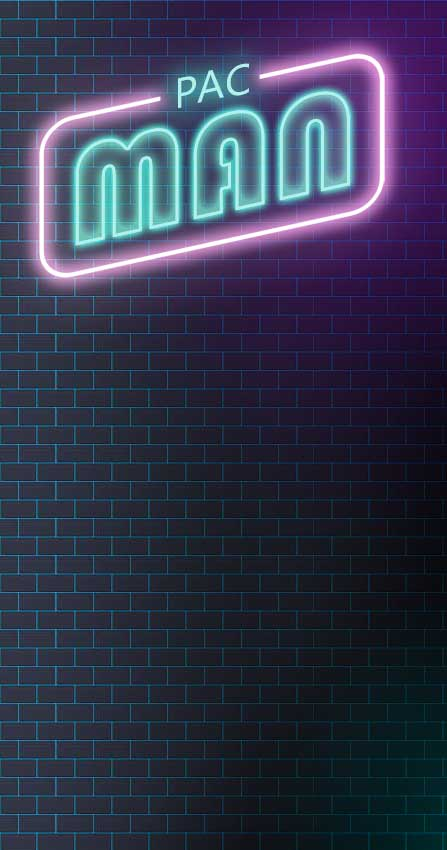
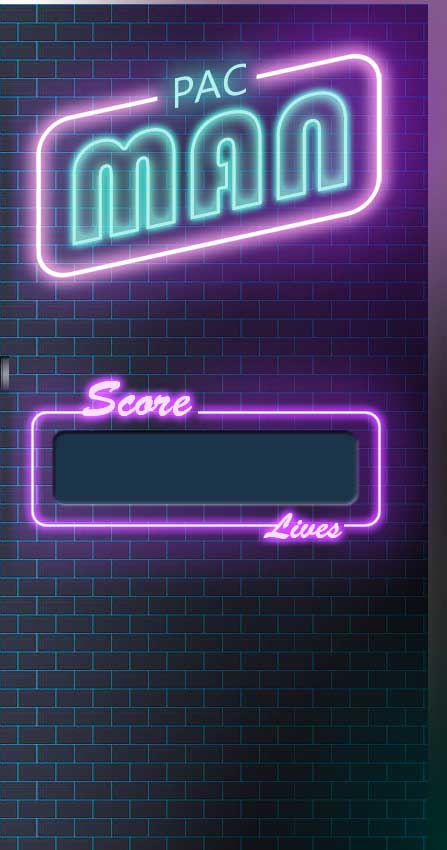
add ability for ghouls to look for pacman

diff --git a/PacMan/PacMan/Form1.Designer.cs b/PacMan/PacMan/Form1.Designer.cs
@@ -32,6 +32,7 @@ namespace Pacman
             this.components = new System.ComponentModel.Container();
             this.timer1 = new System.Windows.Forms.Timer(this.components);
             this.pictureBox1 = new System.Windows.Forms.PictureBox();
+            this.textBox1 = new System.Windows.Forms.TextBox();
             ((System.ComponentModel.ISupportInitialize)(this.pictureBox1)).BeginInit();
             this.SuspendLayout();
             // 
@@ -44,11 +45,25 @@ namespace Pacman
             // 
             this.pictureBox1.BackColor = System.Drawing.SystemColors.ActiveBorder;
             this.pictureBox1.Image = global::PacMan.Properties.Resources.scoreboard;
-            this.pictureBox1.Location = new System.Drawing.Point(999, -13);
+            this.pictureBox1.Location = new System.Drawing.Point(993, -18);
+            this.pictureBox1.Margin = new System.Windows.Forms.Padding(3, 2, 3, 2);
             this.pictureBox1.Name = "pictureBox1";
             this.pictureBox1.Size = new System.Drawing.Size(585, 970);
             this.pictureBox1.TabIndex = 0;
             this.pictureBox1.TabStop = false;
+            // 
+            // textBox1
+            // 
+            this.textBox1.BackColor = System.Drawing.Color.FromArgb(((int)(((byte)(28)))), ((int)(((byte)(52)))), ((int)(((byte)(75)))));
+            this.textBox1.BorderStyle = System.Windows.Forms.BorderStyle.None;
+            this.textBox1.Cursor = System.Windows.Forms.Cursors.No;
+            this.textBox1.Font = new System.Drawing.Font("Broadway", 40.2F, System.Drawing.FontStyle.Regular, System.Drawing.GraphicsUnit.Point, ((byte)(0)));
+            this.textBox1.ForeColor = System.Drawing.Color.MintCream;
+            this.textBox1.Location = new System.Drawing.Point(1104, 517);
+            this.textBox1.Name = "textBox1";
+            this.textBox1.Size = new System.Drawing.Size(156, 76);
+            this.textBox1.TabIndex = 0;
+            this.textBox1.TabStop = false;
             // 
             // Form1
             // 
@@ -56,14 +71,16 @@ namespace Pacman
             this.AutoScaleMode = System.Windows.Forms.AutoScaleMode.Font;
             this.BackColor = System.Drawing.SystemColors.ActiveCaptionText;
             this.ClientSize = new System.Drawing.Size(1813, 974);
+            this.Controls.Add(this.textBox1);
             this.Controls.Add(this.pictureBox1);
             this.DoubleBuffered = true;
-            this.Margin = new System.Windows.Forms.Padding(4, 4, 4, 4);
+            this.Margin = new System.Windows.Forms.Padding(4);
             this.Name = "Form1";
             this.Text = "Form1";
             this.KeyDown += new System.Windows.Forms.KeyEventHandler(this.Form1_KeyDown_1);
             ((System.ComponentModel.ISupportInitialize)(this.pictureBox1)).EndInit();
             this.ResumeLayout(false);
+            this.PerformLayout();
 
         }
 
@@ -71,6 +88,7 @@ namespace Pacman
 
         private System.Windows.Forms.Timer timer1;
         internal System.Windows.Forms.PictureBox pictureBox1;
+        private System.Windows.Forms.TextBox textBox1;
     }
 }
 

diff --git a/PacMan/PacMan/Controller.cs b/PacMan/PacMan/Controller.cs
@@ -4,6 +4,7 @@ using System.Drawing;
 using System.Linq;
 using System.Text;
 using System.Threading.Tasks;
+using System.Windows.Forms;
 
 namespace PacMan
 {
@@ -26,13 +27,17 @@ namespace PacMan
         private List<Bitmap> ghoul3Frames;
         private List<Bitmap> ghoul4Frames;
         private List<Ghoul> ghouls;
+        private TextBox textBox1;
+        private int score;
 
 
-        public Controller(Maze maze, Random random)
+        public Controller(Maze maze, Random random, TextBox textBox1)
         {
             this.maze = maze;
             this.random = random;
-
+            this.textBox1 = textBox1;
+            score = 0;
+            textBox1.Text = score.ToString();
             pacmanFrames = new List<Bitmap>(); //creating list of animation framse for pacman
             for (int i = 1; i < PACFRAMECOUNT+1; i++)
             {
@@ -78,17 +83,20 @@ namespace PacMan
 
         public void StartNewGame()
         {
-
+            pacman = null;
+            pacman = new PacMan(pacmanFrames, maze, random);
+            foreach (Ghoul ghoul in ghouls)
+            {
+                int pos = 9;
+                ghoul.Position = new Point(pos, 11);
+                pos++;
+            }
 
         }
 
         public void PlayGame()
         {
-
             maze.Draw();
-
-
-
             foreach (Ghoul ghoul in ghouls)
             {
                 ghoul.Draw();
@@ -112,9 +120,16 @@ namespace PacMan
                 pacman.Move();
             }
 
+            if (pacman.EatKibble() == true)
+            {
+                score++;
+                textBox1.Text = score.ToString();
+            }
 
             foreach (Ghoul ghoul in ghouls)
             {
+                ghoul.PacManPosition(pacman.Position.Y);
+
                 if (pacman.HitOpponent(ghoul.Position))
                 {
                     pacman.Dead1 = true;
@@ -122,9 +137,10 @@ namespace PacMan
                 }
             }
 
-
-
-
+            if (pacman.AniFrame == 23)
+            {
+                StartNewGame();
+            }
         }
 
         public void SetPacManDirection(Direction direction)

diff --git a/PacMan/PacMan/Maze.cs b/PacMan/PacMan/Maze.cs
@@ -24,9 +24,9 @@ namespace PacMan
                                 "wlwwwlwlkkwwckiwlwwwlw" +
                                 "wlkkkiwwwlwwlwwwlkkkiw" +
                                 "wwwwwlwckikkikkwlwwwww" +
-                                "wwwwwlwlwbbbbwlwlwwwww" +
-                                "kkkkkikiwbbbbwlkikkkkk" +
-                                "wwwwwlwlwbbbbwlwlwwwww" +
+                                "wwwwwlwlwjjjjwlwlwwwww" +
+                                "pkkkkikiwjjjjwlkikkkkp" +
+                                "wwwwwlwlwjjjjwlwlwwwww" +
                                 "wwwwwlwlwwwwwwlwlwwwww" +
                                 "wckkkiwlkkkkkkiwlkkkkw" +
                                 "wlwwwlwlwwwwwwlwlwwwlw" +
@@ -47,6 +47,7 @@ namespace PacMan
         private Bitmap kibbleLeft;
         private Bitmap kibbleCorner;
         private Bitmap kibbleIntersection;
+        private Bitmap pipe;
 
         //constructor
         public Maze()
@@ -63,6 +64,7 @@ namespace PacMan
             kibbleLeft = Properties.Resources.kibbleLeft;
             kibbleCorner = Properties.Resources.kibbleCorner;
             kibbleIntersection = Properties.Resources.kibbleIntersection;
+            pipe = Properties.Resources.pipe;
             nKibbles = NKIBBLES;
 
             // set position of maze on the Form
@@ -134,7 +136,13 @@ namespace PacMan
                     case 'i':
                         Rows[nRow].Cells[nColumn].Value = kibbleIntersection;
                         break;
+                    case 'p':
+                        Rows[nRow].Cells[nColumn].Value = pipe;
+                        break;
                     case 'b':
+                        Rows[nRow].Cells[nColumn].Value = blank;
+                        break;
+                    case 'j':
                         Rows[nRow].Cells[nColumn].Value = blank;
                         break;
                     default:

diff --git a/PacMan/PacMan/Ghoul.cs b/PacMan/PacMan/Ghoul.cs
@@ -30,6 +30,7 @@ namespace PacMan
         private int headY;
         private int stringPos;
         private bool change;
+        private int pacManYPos;
 
 
         public Ghoul(List<Bitmap> frames, Maze maze, Random random, Point position)
@@ -137,7 +138,7 @@ namespace PacMan
 
                     rotateSprite(DOWN); //9 represents start frame of downward animation sequence
 
-                    if (maze.CurrentMap1[stringPos + 22] != 'w')
+                    if (maze.CurrentMap1[stringPos + 22] != 'w' && maze.CurrentMap1[stringPos + 22] != 'j')
                     {
                         headY++;
                     }
@@ -156,6 +157,26 @@ namespace PacMan
 
             position = new Point(headX, headY);
         }
+
+        public void PacManPosition(int YPos)
+        {
+            pacManYPos = YPos;
+        }
+
+        private void findPacMan()  //check to see if pacman is above or below ghoul
+        {
+            if (position.Y > pacManYPos && maze.CurrentMap1[stringPos - 22] != 'w')
+            {
+                direction = Direction.Up;
+            }
+
+            if (position.Y < pacManYPos && maze.CurrentMap1[stringPos + 22] != 'w' && maze.CurrentMap1[stringPos] != 'j')  //forces ghouls to leave jail  at beginning of level
+            {
+                direction = Direction.Down;
+            }
+
+        }
+
 
         private void changeDirection()
         {
@@ -208,6 +229,7 @@ namespace PacMan
         {
 
             int newDirection = random.Next(4);
+            findPacMan(); //ghouls will search for pacman position but only in wall gaps, not in maze corners
 
             switch (newDirection)
             {

diff --git a/PacMan/PacMan/PacMan.cs b/PacMan/PacMan/PacMan.cs
@@ -61,12 +61,27 @@ namespace PacMan
             maze.Rows[position.Y].Cells[position.X].Value = frames[aniFrame];
         }
 
+        public bool EatKibble() //checks to see if pacman has landed on a square with kibble
+        {
+            bool eat = false;
+            if ((maze.CurrentMap1[stringPos] == 'k')||
+                (maze.CurrentMap1[stringPos] == 'l') || 
+                (maze.CurrentMap1[stringPos] == 'i') || 
+                (maze.CurrentMap1[stringPos] == 'c'))
+            {
+                eat = true;
+                maze.CurrentMap1[stringPos] = 'b';
+            }
+            return eat;
+        }
+
         public override void Move()
         {
             int headX = position.X;
             int headY = position.Y;
             stringPos = (headY * CELLS) + headX;
-            maze.CurrentMap1[stringPos] = 'b';
+
+            
 
 
             switch (direction)
@@ -112,7 +127,7 @@ namespace PacMan
 
                     rotateSprite(DOWN); //9 represents start frame of downward animation sequence
 
-                    if (maze.CurrentMap1[stringPos + 22] != 'w')
+                    if (maze.CurrentMap1[stringPos + 22] != 'w'  && maze.CurrentMap1[stringPos + 22] != 'j')
                     {
                         headY++;
                     }
@@ -162,5 +177,6 @@ namespace PacMan
         public Point Position { get => position; set => position = value; }
         public int StringPos { get => stringPos; set => stringPos = value; }
         public bool Dead1 { get => dead; set => dead = value; }
+        public int AniFrame { get => aniFrame; set => aniFrame = value; }
     }
 }

diff --git a/PacMan/PacMan/Properties/Resources.Designer.cs b/PacMan/PacMan/Properties/Resources.Designer.cs
@@ -433,9 +433,29 @@ namespace PacMan.Properties {
         /// <summary>
         ///   Looks up a localized resource of type System.Drawing.Bitmap.
         /// </summary>
+        internal static System.Drawing.Bitmap pipe {
+            get {
+                object obj = ResourceManager.GetObject("pipe", resourceCulture);
+                return ((System.Drawing.Bitmap)(obj));
+            }
+        }
+        
+        /// <summary>
+        ///   Looks up a localized resource of type System.Drawing.Bitmap.
+        /// </summary>
         internal static System.Drawing.Bitmap scoreboard {
             get {
                 object obj = ResourceManager.GetObject("scoreboard", resourceCulture);
+                return ((System.Drawing.Bitmap)(obj));
+            }
+        }
+        
+        /// <summary>
+        ///   Looks up a localized resource of type System.Drawing.Bitmap.
+        /// </summary>
+        internal static System.Drawing.Bitmap scoreboard1 {
+            get {
+                object obj = ResourceManager.GetObject("scoreboard1", resourceCulture);
                 return ((System.Drawing.Bitmap)(obj));
             }
         }

diff --git a/PacMan/PacMan/Form1.cs b/PacMan/PacMan/Form1.cs
@@ -41,7 +41,7 @@ namespace Pacman
             // important, need to add the maze object to the list of controls on the form
             Controls.Add(maze);
 
-            controller = new Controller(maze, random);
+            controller = new Controller(maze, random, textBox1);
             controller.StartNewGame();
             deadCount = 0;
 
